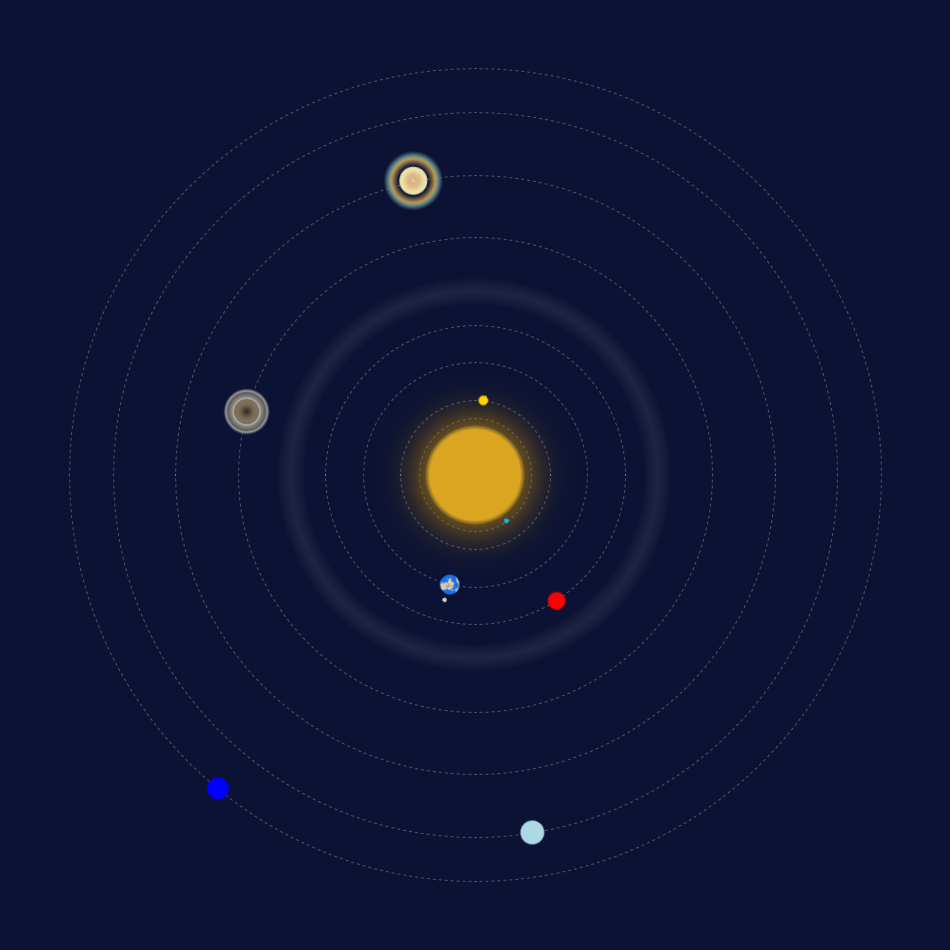
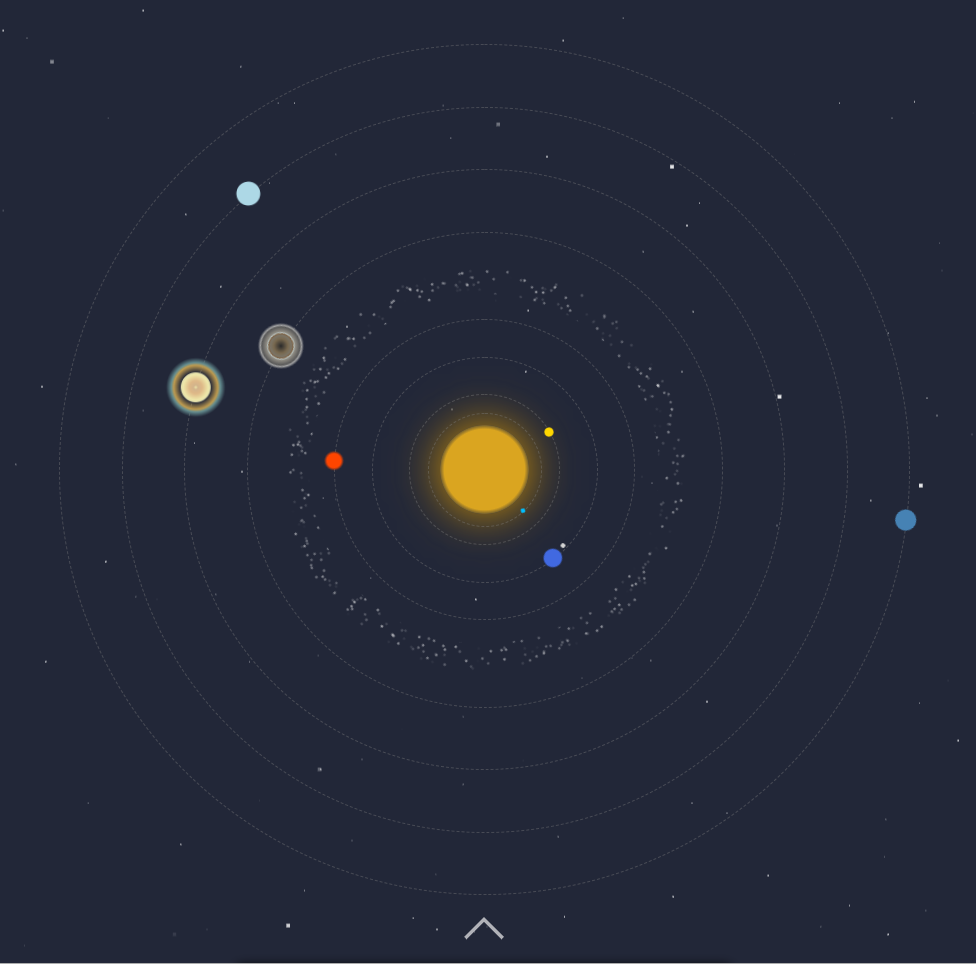
按钮透明度，太阳比例缩小

diff --git a/index.html b/index.html
@@ -28,10 +28,10 @@
                 position: absolute;
                 top: 50%;
                 left: 50%;
-                height: 81px;
-                width: 81px;
-                margin-top: calc(-80px / 2);
-                margin-left: calc(-80px / 2);
+                height: calc(70px + 1px);
+                width: calc(70px + 1px);
+                margin-top: calc(-70px / 2);
+                margin-left: calc(-70px / 2);
                 background: radial-gradient(
                         goldenrod 0%,
                         goldenrod 64%,
@@ -371,11 +371,29 @@
                 width: 72px;
                 height: 36px;
                 position: fixed;
-                bottom: 20px;
+                bottom: 10px;
                 left: calc(100vw / 2 - 72px / 2);
                 line-height: 36px;
                 text-align: center;
                 color: white;
+                transition: 0.5s linear;
+                animation: opacity 3.6s ease-in-out infinite;
+            }
+
+            .optionBtnHide {
+                transform: rotateX(-180deg);
+            }
+
+            @keyframes opacity {
+                0% {
+                    opacity: 0.8;
+                }
+                50% {
+                    opacity: 0.05;
+                }
+                100% {
+                    opacity: 0.8;
+                }
             }
 
             /*选项面板*/
@@ -396,7 +414,7 @@
             }
 
             .optionHide {
-                bottom: 60px !important;
+                bottom: 50px !important;
             }
 
             #option table {
@@ -544,11 +562,11 @@
             </div>
         </div>
 
-        <div id="optionBtn" onclick="popUp()">
+        <div id="optionBtn" onclick="popUp(this)">
             <svg t="1581348631156" class="icon" viewBox="0 0 1024 1024" version="1.1" xmlns="http://www.w3.org/2000/svg"
                  p-id="1959" width="32" height="32">
                 <path d="M1021.28261 737.254254 512.697383 228.665956 4.114203 737.254254 65.145208 798.285259 512.697383 350.727966 960.251605 798.280142Z"
-                      p-id="1960" fill="#aaaaaa50"></path>
+                      p-id="1960" fill="#ffffff"></path>
             </svg>
         </div>
 
@@ -740,7 +758,8 @@
             }
 
             /*弹出面板*/
-            function popUp() {
+            function popUp(btn) {
+                btn.classList.toggle('optionBtnHide');
                 document.getElementById('option').classList.toggle('optionHide');
             }
         </script>

diff --git a/README.md b/README.md
@@ -2,7 +2,7 @@
 
 CSS + JS 实现：太阳系星球运动
 
-<img src="Solar-system.png" alt="Solar-system" style="max-width:480px;max-height:480px;">
+<img src="Solar-system.png" alt="Solar-system">
 
 1秒 = 1天（1s = 1day）
 
